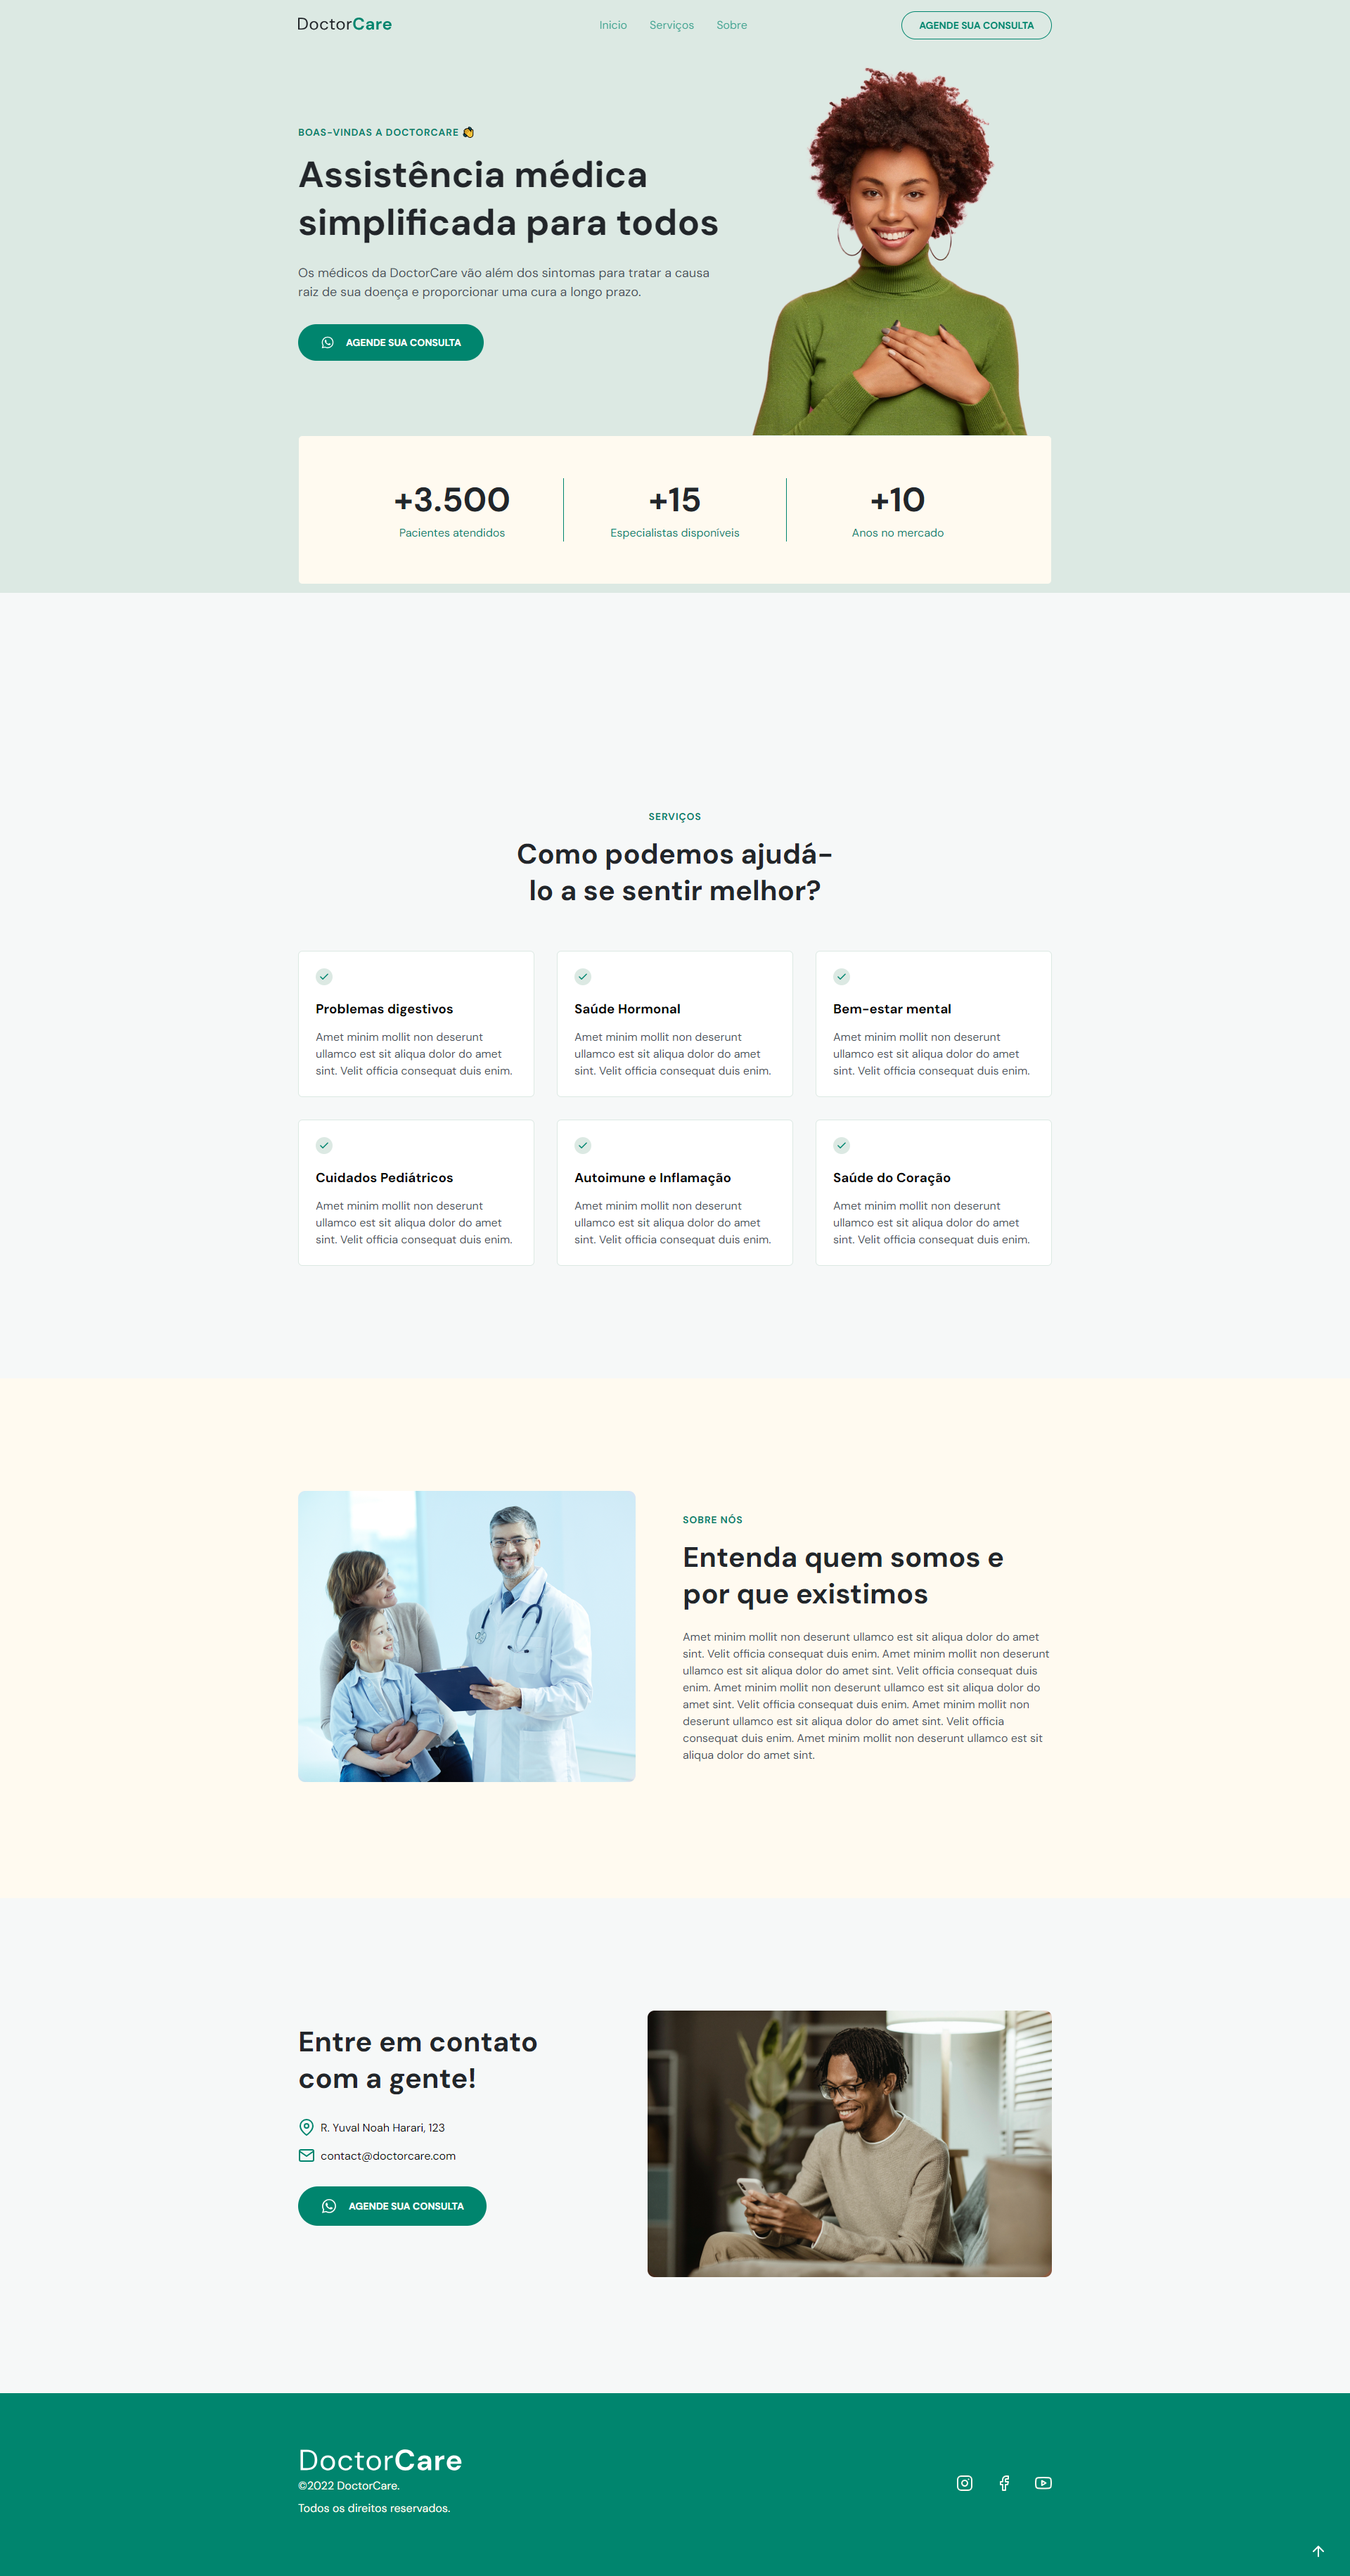
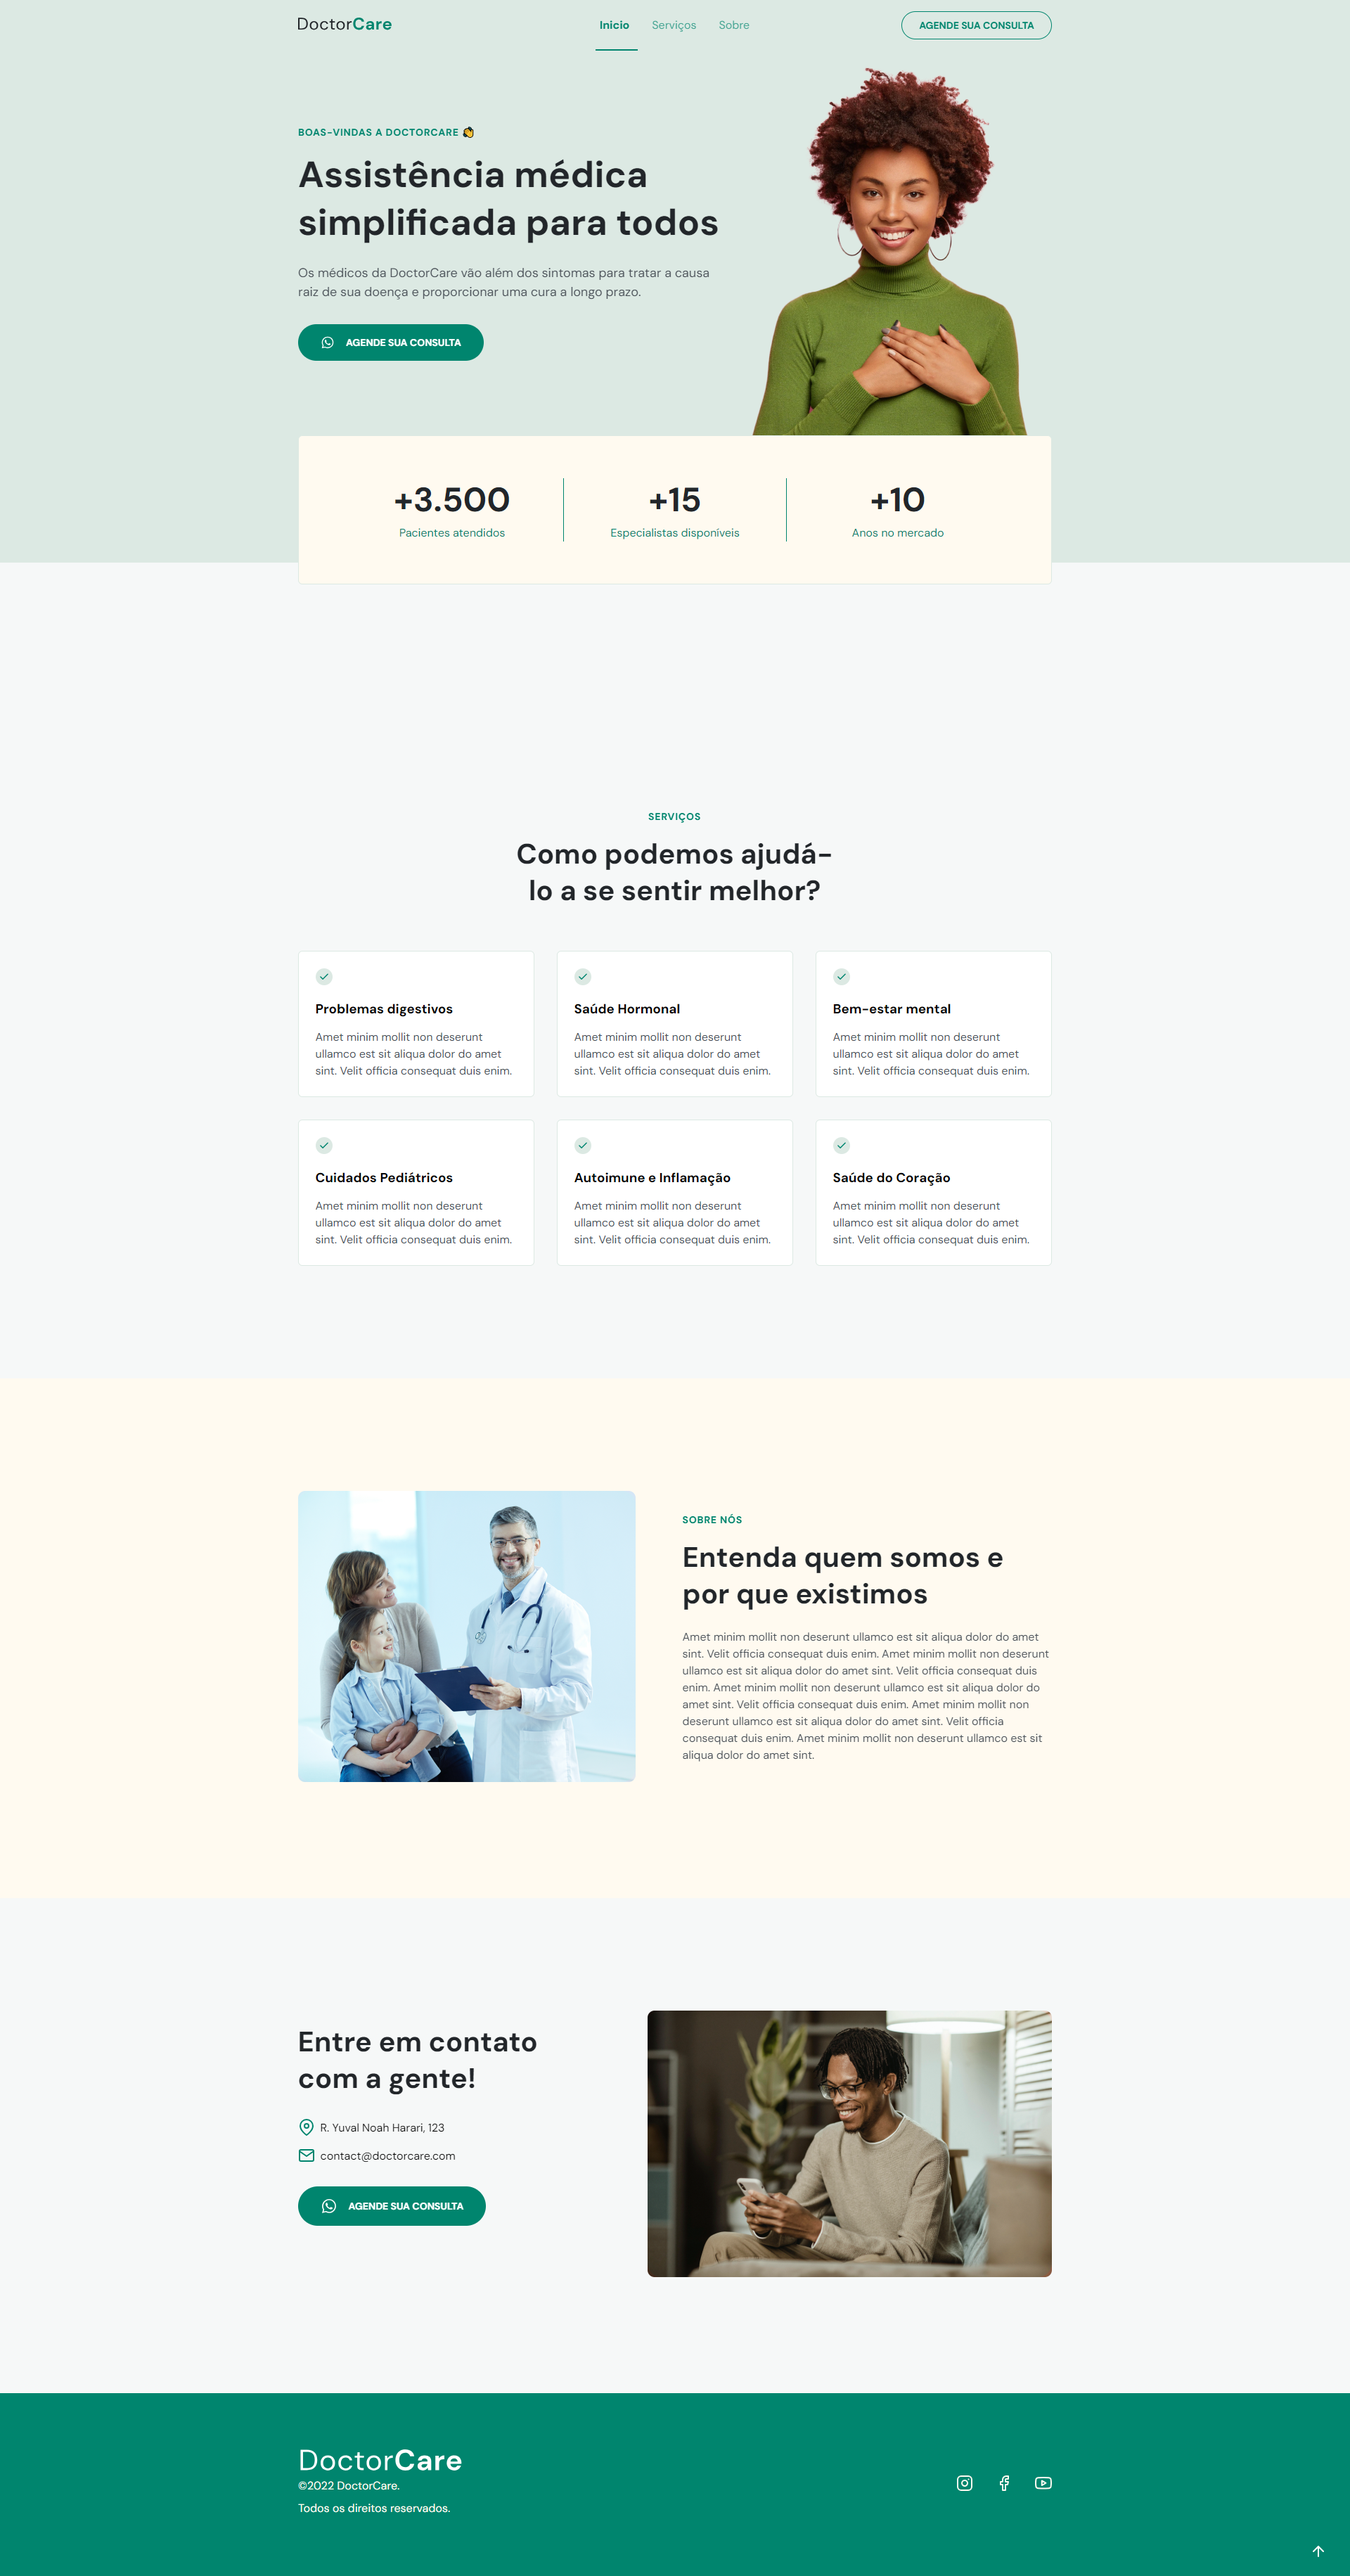
Adicionado efeito de seção ativa

diff --git a/index.html b/index.html
@@ -14,14 +14,14 @@
     <header>
         <div class="wrapper">
             <div class="logo">
-                <a href="#top-of-site">
+                <a href="#topofsite">
                     <img src="assets/images/logop.png" alt="Logo do portfolio com as iniciais WC">
                 </a>
             </div>
 
             <nav class="menu-desktop">
                 <ul>
-                    <li><a href="#top-of-site">HOME</a></li>
+                    <li><a href="#topofsite">HOME</a></li>
                     <li><a href="#about">ABOUT</a></li>
                     <li><a href="#skills">SKILLS</a></li>
                     <li><a href="#portfolio">PROJECTS</a></li>
@@ -45,7 +45,7 @@
 
                 <nav>
                     <ul>
-                        <li><a href="#top-of-site">HOME</a></li>
+                        <li><a href="#topofsite">HOME</a></li>
                         <li><a href="#about">ABOUT</a></li>
                         <li><a href="#skills">SKILLS</a></li>
                         <li><a href="#portfolio">PROJECTS</a></li>
@@ -60,12 +60,12 @@
     </header><!-- Menu de navegação -->
 
     <main>
-        <section id="top-of-site">
+        <section id="topofsite">
             <div class="wrapper">
                 <div class="flex">
                     <div class="txt-top-of-site">
                         <h1>Pronto para transformar ideias em soluções práticas</h1>
-                        <p>Estudante, apaixonado por tecnologia e inovação, conheça-me melhor!</p>
+                        <p>Desenvolvedor de sistemas em formação, apaixonado por tecnologia e inovação, conheça-me melhor!</p>
                         <div class="btn-contact">
                             <a href="#contact">
                                 <button>ENTRE EM CONTATO</button>
@@ -293,15 +293,21 @@
             <div class="wrapper">
                 <h2 class=section-title>MEU <span>PORTFOLIO</span></h2>
                 <div class="flex">
+                    <a href="https://webersoncosta.github.io/doctorcare/" rel="extenal" target="_blank">
                     <div class="img-port" style="background-image: url(assets/images/doctor-care.png);">
                         <div class="overlay">Doctor Care</div>
                     </div>
-                    <div class="img-port" style="background-image: url(assets/images/doctor-care.png);">
-                        <div class="overlay">Doctor Care</div>
-                    </div>
-                    <div class="img-port" style="background-image: url(assets/images/doctor-care.png);">  
-                        <div class="overlay">Doctor Care</div>
-                    </div>
+                    </a>
+                    <a href="https://webersoncosta.github.io/doctorcare/" rel="extenal" target="_blank">
+                        <div class="img-port" style="background-image: url(assets/images/doctor-care.png);">
+                            <div class="overlay">Doctor Care</div>
+                        </div>
+                    </a>
+                    <a href="https://webersoncosta.github.io/doctorcare/" rel="extenal" target="_blank">
+                        <div class="img-port" style="background-image: url(assets/images/doctor-care.png);">
+                            <div class="overlay">Doctor Care</div>
+                        </div>
+                    </a>
                 </div>
             </div>
         </section> <!-- Seção de projetos (PROJECTS) -->
@@ -309,26 +315,12 @@
         <section id="contact">
             <div class="wrapper">
                 <h2 class="section-title">FALA COMIGO </h2>
-
-
                 <form action="https://formsubmit.co/werbesoalmeida@gmail.com" method="POST">
                     <input type="text" name="name" placeholder="Seu nome:" required>
                     <input type="email" name="email" placeholder="Seu e-mail:" required>
                     <input class="textarea" type="text" name="mesage" placeholder="Sua mensagem:" required>
                     <button class="btn-enviar" type="submit">ENVIAR</button>
                </form>
-
-                <!--
-                <form action="https://formsubmit.co/werbesoalmeida@gmail.com" method="post">
-                    <input type="text" name="" id="" placeholder="Seu nome:" required>
-                    <input type="email" name="" id="" placeholder="Seu e-mail:" required>
-                    <input type="text" name="" id="" placeholder="Seu celular: ">
-                    <textarea name="" id="" placeholder="Sua mensagem:" required></textarea>
-
-                    <button class="btn-enviar" type="submit">ENVIAR</button>
-                </form>
-
-                -->
             </div>
         </section> <!-- Seção para contato (CONTACT) -->
     </main>

diff --git a/assets/css/style.css b/assets/css/style.css
@@ -117,6 +117,7 @@ header a{
     transition: 0.1s;
 }
 
+header a.active,
 header a:hover{
     color: rgb(255, 255, 255);
     transform: scale(1.05);
@@ -132,11 +133,12 @@ header a:hover{
     position: relative;
     left: -1rem;
     
-    bottom: -3.5rem;
+    bottom: -3.4rem;
 
     transition: width 0.2s;
 }
 
+.menu-desktop a.active:after,
 .menu-desktop a:hover:after{
     padding-inline: 1rem;
     width: 100%;
@@ -241,38 +243,38 @@ header nav.menu-desktop ul li{
   }
 /*=================== TOP OF SITE STYLE ====================*/
 
-section#top-of-site{
+section#topofsite{
     padding: 20rem 4%;
     height: 100vh;
 }
 
-section#top-of-site .flex{
+section#topofsite .flex{
     align-items: center;
     justify-content: center;
     gap: 9rem;
 }
 
-#top-of-site .txt-top-of-site h1{
+#topofsite .txt-top-of-site h1{
     color: white;
     font-size: 4.5rem;
     line-height: 5rem;
     margin-top: 10rem;
 }
 
-#top-of-site .txt-top-of-site p{
+#topofsite .txt-top-of-site p{
     color: white;
     font-size: 1.6rem;
     line-height: 2rem;
     margin: 4rem 0;
 }
 
-#top-of-site .txt-top-of-site button{
+#topofsite .txt-top-of-site button{
     width: 20rem;
     height: 4rem;
     margin: 8rem 0;
 }
 
-#top-of-site .img-top-of-site img{
+#topofsite .img-top-of-site img{
     max-width:50rem;
     max-height:35rem;
     width: auto;
@@ -543,7 +545,7 @@ section#portfolio .flex{
     color: var(--dark-green);
 }
 
-.img-port{
+a .img-port{
     width: 34rem;
     height: 46rem; 
     border: 1px solid var(--orange);
@@ -556,17 +558,17 @@ section#portfolio .flex{
     transition: 5s;
 }
 
-.img-port:hover{
+a .img-port:hover{
     background-position: 100% 100%;
 }
 
-.img-port h3{
+a .img-port h3{
     margin-top: 8rem;
     text-align: center;
     font-size: 2rem;
 }
 
-.img-port .overlay{
+a .img-port .overlay{
     position: absolute;
     top: 0;
     left: 0;
@@ -581,13 +583,14 @@ section#portfolio .flex{
     background-color: rgba(0, 0, 0, 0.514);
     opacity: 0;
     transition: .5s;
+    color: var(--green);
 }
 
-.img-port .overlay:hover{
+a .img-port .overlay:hover{
     opacity: 1;
 }
 
-.empty{
+a .empty{
     background-image: linear-gradient(to top, var(--dark-green), var(--light-grey));
 }
 
@@ -760,22 +763,22 @@ footer .line-footer p a{
 
     /* ========== top of site ========== */
 
-    section#top-of-site{
+    section#topofsite{
         padding: 18rem 4%;
     }
 
-    #top-of-site .img-top-of-site img{
+    #topofsite .img-top-of-site img{
         max-width:45rem;
         max-height:30rem;
         display: block;
     }
 
-    #top-of-site .txt-top-of-site h1{
+    #topofsite .txt-top-of-site h1{
         font-size: 3.5rem;
         line-height: 4rem;
     }
 
-    #top-of-site .txt-top-of-site button{
+    #topofsite .txt-top-of-site button{
         margin: 5rem 0;
     }
 
@@ -824,7 +827,7 @@ footer .line-footer p a{
 
     /* ========== top of site ========== */
 
-    section#top-of-site{
+    section#topofsite{
         padding: 10rem 8%;
         height: 0%;
     }
@@ -834,26 +837,27 @@ footer .line-footer p a{
         display: block;
     }
     
-    section#top-of-site .flex{
+    section#topofsite .flex{
         flex-direction: column-reverse;
         gap: 50px;
     }
     
-    #top-of-site .img-top-of-site img{
+    #topofsite .img-top-of-site img{
         margin: auto;
         width: 85%;
     }
     
-    #top-of-site .txt-top-of-site h1{
+    #topofsite .txt-top-of-site h1{
         font-size: 3rem;
         line-height: 3rem;
         margin-top: 0;
         text-align: center;
     }
 
-    #top-of-site .txt-top-of-site p{
+    #topofsite .txt-top-of-site p{
         text-align: justify;
         margin: 3rem 0;
+        text-align: center;
     }
 
     /* ========== ABOUT ========== */
@@ -862,7 +866,7 @@ footer .line-footer p a{
         padding: 40px 8%;
     }
 
-    #top-of-site .img-top-of-site img{
+    #topofsite .img-top-of-site img{
         max-width:30rem;
         max-height:25rem;
     }
@@ -1004,7 +1008,7 @@ footer .line-footer p a{
     }
     .img-port{
         width: 100%;
-        max-width: 34rem;
+        max-width: 30rem;
         margin-inline: auto;
     }
     

diff --git a/assets/js/menu.js b/assets/js/menu.js
@@ -1,3 +1,4 @@
+window.addEventListener('scroll', onScroll)
 let btnMenu = document.getElementById('btn-open-menu')
 let menu = document.getElementById('menu-mobile')
 let overlay = document.getElementById('overlay-menu')
@@ -13,3 +14,41 @@ menu.addEventListener('click', ()=>{
 overlay.addEventListener('click', ()=>{
     menu.classList.remove('open-menu')
 })
+
+onScroll()
+function onScroll(){
+    activateMenuAtCurrentSection(topofsite)
+    activateMenuAtCurrentSection(about)
+    activateMenuAtCurrentSection(skills)
+    activateMenuAtCurrentSection(portfolio)
+}
+
+function activateMenuAtCurrentSection(section){
+
+    const targetLine = scrollY + innerHeight / 2
+    
+    // O topo da seção
+    const sectionTop = section.offsetTop
+    // A altura da seção
+    const sectionHeight = section.offsetHeight
+    // O topo da seção chegou ou ultrapassou a linha alvo
+    const sectionTopReachOrPassedTargetLine = targetLine >= sectionTop 
+    // Verifica onde a seção termina
+    const sectionEndsAt = sectionTop + sectionHeight
+    // Verifica se a base está passando da linha alvo
+    const sectionEndPassedTargetLine = sectionEndsAt <= targetLine
+
+
+    // Limites da seção
+
+    const sectionBoundaries = sectionTopReachOrPassedTargetLine && !sectionEndPassedTargetLine
+
+    const sectionId = section.getAttribute('id')
+    const menuElement = document.querySelector(`.menu-desktop a[href*=${sectionId}]`)
+
+    menuElement.classList.remove('active')
+    if(sectionBoundaries){
+        menuElement.classList.add('active')
+    }
+    
+}
